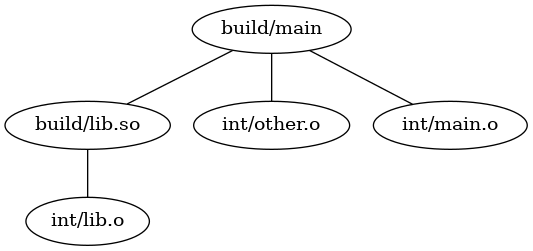
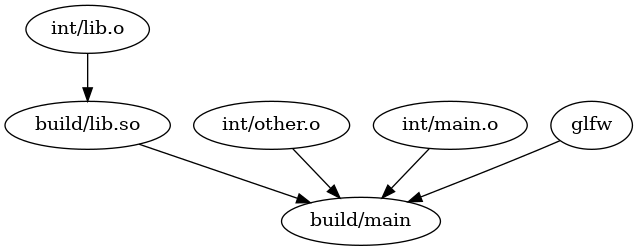
Added system libs to graph, made graph directed

diff --git a/rubuild.rb b/rubuild.rb
@@ -82,19 +82,39 @@ module Rubuild
 
     def output_dot_file(root_target, output_path)
         jobstack = create_job_stack(root_target)
+        syslibs = Array.new
+
+        jobstack.each do |target|
+            if target.respond_to? :system_libs
+                target.system_libs.each do |lib|
+                    syslibs.delete lib
+                    syslibs.push lib
+                end
+            end
+        end
 
         File.open(output_path, "w:UTF-8") { |file| 
-            str = "graph DependencyTree {\n"
+
+            str = "digraph DependencyTree {\n"
 
             jobstack.each do |target|
                 str += "    \"#{target.output}\"[]\n"
+            end
+
+            syslibs.each do |lib|
+                str += "    \"#{lib}\"\n"
             end
 
             str += "\n"
 
             jobstack.each do |target|
                 target.dependencies.each do |dep|
-                    str += "    \"#{target.output}\" -- \"#{dep.output}\"[]\n"
+                    str += "    \"#{dep.output}\" -> \"#{target.output}\"[]\n"
+                end
+                if target.respond_to? :system_libs
+                    target.system_libs.each do |lib|
+                        str += "    \"#{lib}\" -> \"#{target.output}\"\n"
+                    end
                 end
             end
             str += "}"
@@ -114,6 +134,7 @@ module Rubuild
         attr_reader :output
         attr_accessor :dependencies
         attr_reader :name
+        attr_reader :system_libs
 
         def initialize
             @dependencies = Array.new
